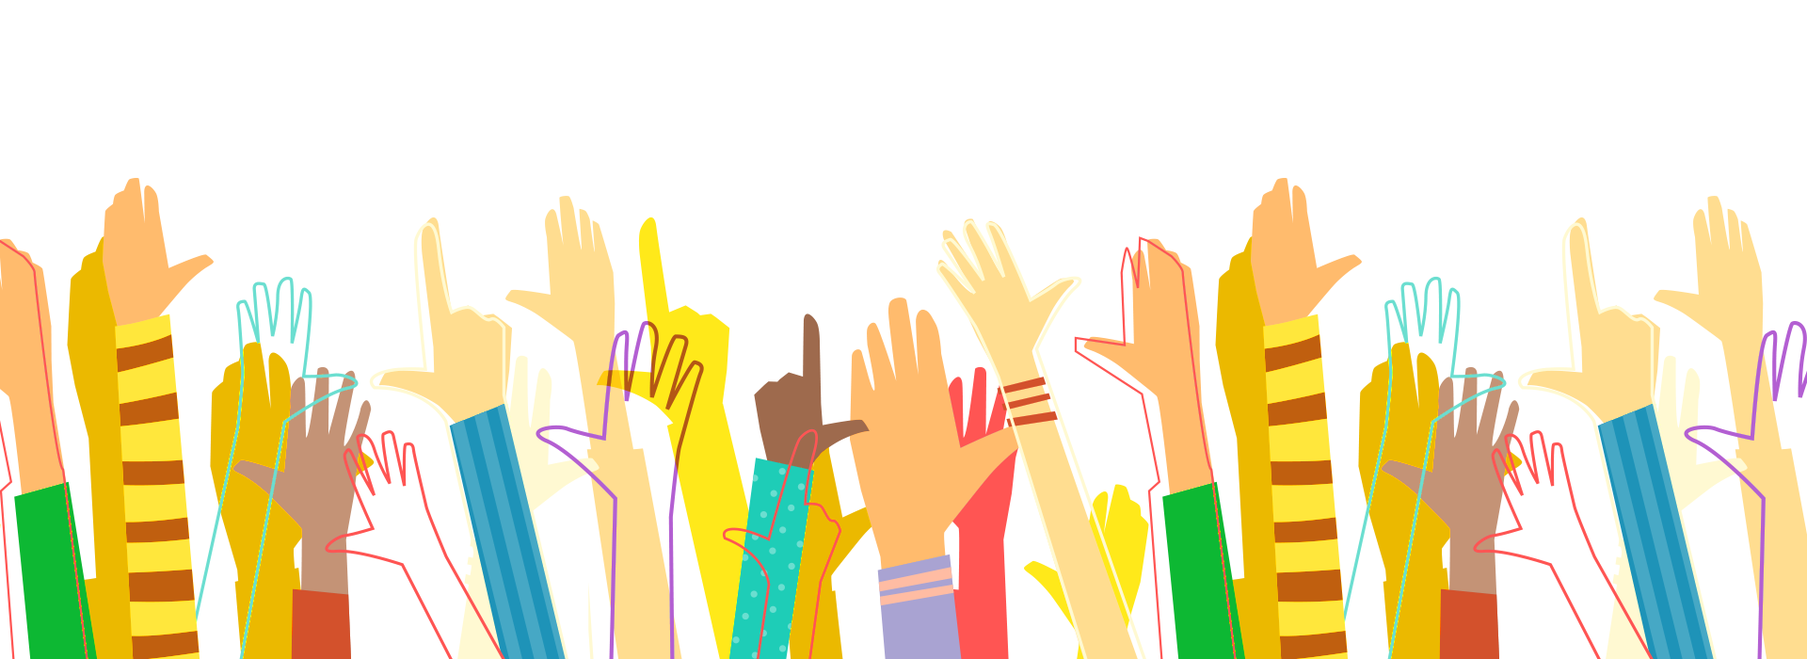
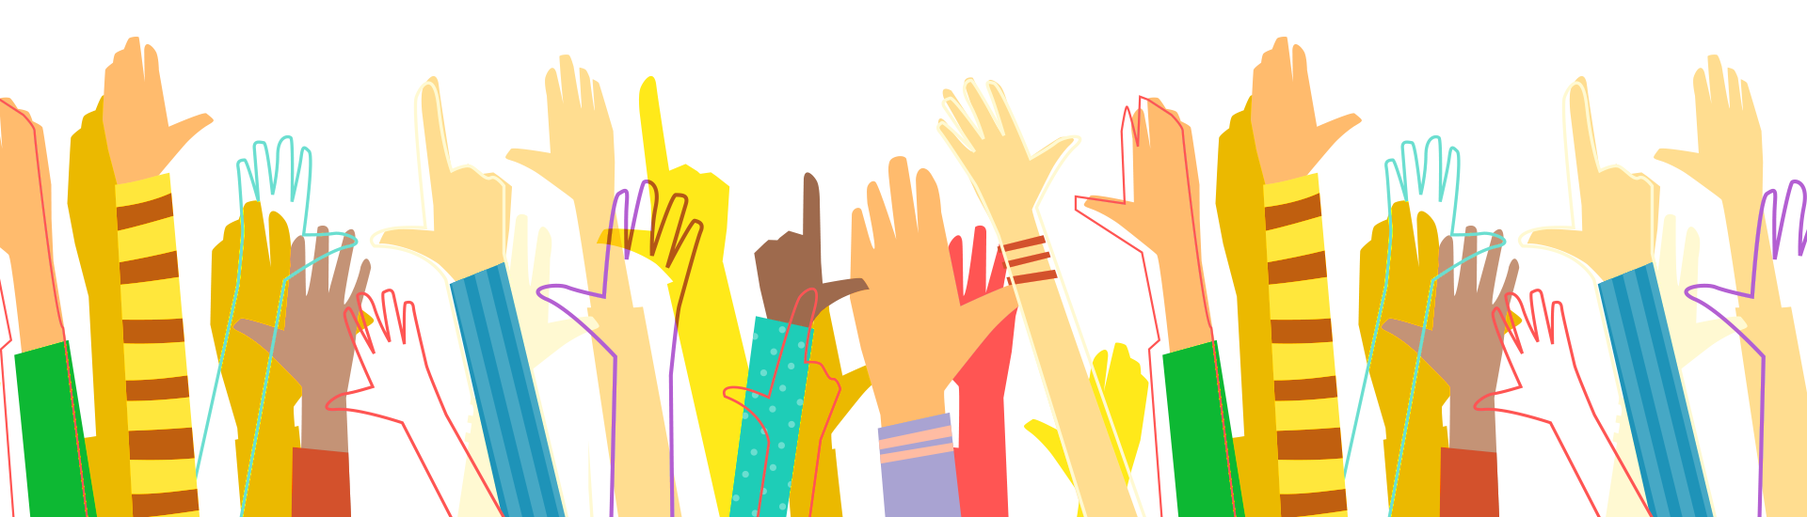
Added all screen and header animation.

diff --git a/css/style.css b/css/style.css
@@ -1,1 +1,1 @@
-html,body,div,span,applet,object,iframe,h1,h2,h3,h4,h5,h6,p,blockquote,pre,a,abbr,acronym,address,big,cite,code,del,dfn,em,img,ins,kbd,q,s,samp,small,strike,strong,sub,sup,tt,var,b,u,i,center,dl,dt,dd,ol,ul,li,fieldset,form,label,legend,table,caption,tbody,tfoot,thead,tr,th,td,article,aside,canvas,details,embed,figure,figcaption,footer,header,hgroup,menu,nav,output,ruby,section,summary,time,mark,audio,video{margin:0;padding:0;border:0;font-size:100%;font:inherit;vertical-align:baseline}article,aside,details,figcaption,figure,footer,header,hgroup,menu,nav,section{display:block}body{line-height:1.2}ol,ul{list-style:none}blockquote,q{quotes:none}blockquote:before,blockquote:after,q:before,q:after{content:'';content:none}table{border-collapse:collapse;border-spacing:0}a{text-decoration:none}@font-face{font-family:'DINPro';src:url('../fonts/DINPro.eot');src:url('../fonts/DINPro.woff2') format('woff2'),url('../fonts/DINPro.woff') format('woff'),url('../fonts/DINPro.ttf') format('truetype'),url('../fonts/DINPro.svg#DINPro') format('svg'),url('../fonts/DINPro.eot?#iefix') format('embedded-opentype');font-weight:normal;font-style:normal}@font-face{font-family:'Gothic725BdBT';src:url('../fonts/Gothic725BdBT.eot');src:url('../fonts/Gothic725BdBT.woff2') format('woff2'),url('../fonts/Gothic725BdBT.woff') format('woff'),url('../fonts/Gothic725BdBT.ttf') format('truetype'),url('../fonts/Gothic725BdBT.svg#Gothic725BdBT') format('svg'),url('../fonts/Gothic725BdBT.eot?#iefix') format('embedded-opentype');font-weight:normal;font-style:normal}@font-face{font-family:'Gothic725BlkBT';src:url('../fonts/Gothic725BlkBT.eot');src:url('../fonts/Gothic725BlkBT.woff2') format('woff2'),url('../fonts/Gothic725BlkBT.woff') format('woff'),url('../fonts/Gothic725BlkBT.ttf') format('truetype'),url('../fonts/Gothic725BlkBT.svg#Gothic725BlkBT') format('svg'),url('../fonts/Gothic725BlkBT.eot?#iefix') format('embedded-opentype');font-weight:normal;font-style:normal}@-webkit-keyframes anim{}@keyframes anim{}body{color:#881f1f;font-family:Gothic725BdBT;background-color:#fff1c5;background-image:url(../img/screen_1_bg.jpg)}.header{position:absolute;top:0;left:0;display:-webkit-box;display:-webkit-flex;display:-ms-flexbox;display:flex;-webkit-box-pack:center;-webkit-justify-content:center;-ms-flex-pack:center;justify-content:center;width:100%;height:60px;background-color:#db0006}.header .logo_wrap{display:-webkit-box;display:-webkit-flex;display:-ms-flexbox;display:flex;-webkit-box-pack:justify;-webkit-justify-content:space-between;-ms-flex-pack:justify;justify-content:space-between;padding:20px 50px;box-sizing:border-box;width:19%;height:10vw;background-color:#fff;border-radius:0 0 10px 10px}.header .logo_wrap .logo{width:40%;-o-object-fit:contain;object-fit:contain}.header .main_menu{display:-webkit-box;display:-webkit-flex;display:-ms-flexbox;display:flex}.header .main_menu_link{display:-webkit-box;display:-webkit-flex;display:-ms-flexbox;display:flex;-webkit-box-pack:center;-webkit-justify-content:center;-ms-flex-pack:center;justify-content:center;-webkit-box-align:center;-webkit-align-items:center;-ms-flex-align:center;align-items:center;padding:0 10px;box-sizing:border-box;width:8vw;height:60px;line-height:1;color:#ffdba9;text-align:center;font-family:DINPro;border-left:1px solid #f1e1af;border-right:1px solid #f1e1af}.header .main_menu_link:hover{background-color:#ea0006}.screen_1{padding:240px 0 0}.screen_1_caption{text-align:center;font-size:1.5rem;font-family:Gothic725BlkBT;text-transform:uppercase}.screen_1 .counter{z-index:0;display:-webkit-box;display:-webkit-flex;display:-ms-flexbox;display:flex;-webkit-box-pack:justify;-webkit-justify-content:space-between;-ms-flex-pack:justify;justify-content:space-between;-webkit-box-align:center;-webkit-align-items:center;-ms-flex-align:center;align-items:center;position:relative;margin:10px auto 0;padding:0 50px 0 25px;box-sizing:border-box;width:500px;height:140px;line-height:140px;color:#fff1c5;font-size:5.75rem;border-radius:15px;background-color:#881f1f}.screen_1 .counter::after{content:'';position:absolute;z-index:-1;bottom:-10px;left:50%;-webkit-transform:translateX(-50%) rotate(45deg);-ms-transform:translateX(-50%) rotate(45deg);transform:translateX(-50%) rotate(45deg);display:block;width:30px;height:30px;border-radius:7px;background-color:#881f1f}.screen_1 .counter_img{height:80%}.screen_1 .hands{height:700px;background-image:url(../img/hands_bg.png);background-position:bottom;background-size:cover}.screen_2{padding:50px 17% 50px 21%;box-sizing:border-box;font-family:Gothic725BlkBT;background-color:#ffbc0d;background-image:url(../img/screen_2_bg.jpg)}.screen_2_caption{color:#e00405;text-align:center;font-size:2.75rem}.screen_2_paragraph{margin-top:30px;font-size:1.7rem}.screen_2 .stars{margin-top:30px;display:-webkit-box;display:-webkit-flex;display:-ms-flexbox;display:flex;-webkit-box-pack:justify;-webkit-justify-content:space-between;-ms-flex-pack:justify;justify-content:space-between}.screen_2 .stars .star{font-size:1.875rem;padding:0 10px;box-sizing:border-box}.screen_2 .stars .star_photo{text-align:center}.screen_2 .stars .star_photo_img{width:250px;height:250px;border-radius:50%}.screen_2 .stars .star_info{margin-top:20px}.screen_2 .stars .star_info_name{text-transform:uppercase}.screen_2 .stars .star .date{margin-top:10px;display:inline-block;padding:5px 10px;box-sizing:border-box;color:#ffbc0d;border-radius:5px;background-color:#881f1f}.screen_2 .stars .star .address{margin-top:10px}.screen_2 .other_stars{margin-top:20px;text-align:center}.screen_2 .other_stars_button{position:relative;z-index:0;display:inline-block;padding:10px 30px;box-sizing:border-box;width:330px;color:#fff;font-size:1.812rem;font-family:Gothic725BdBT;border-radius:15px;text-transform:uppercase;background-color:#df0405}.screen_2 .other_stars_button::before{content:'';position:absolute;z-index:-1;bottom:-10px;left:50%;-webkit-transform:translateX(-50%) rotate(45deg);-ms-transform:translateX(-50%) rotate(45deg);transform:translateX(-50%) rotate(45deg);display:block;width:30px;height:30px;border-radius:7px;background-color:#df0405}.screen_3{position:relative;padding:50px 17% 70px;box-sizing:border-box;display:-webkit-box;display:-webkit-flex;display:-ms-flexbox;display:flex}.screen_3::before,.screen_3::after{content:'';position:absolute;top:10%;height:80%;width:10%;background-size:contain;background-repeat:no-repeat}.screen_3::before{left:50px;background-image:url(../img/heart_left.png);background-position:left}.screen_3::after{right:50px;background-image:url(../img/heart_right.png);background-position:right}.screen_3 .img_wrap{width:40%}.screen_3 .img_wrap .child{width:100%}.screen_3 .instagram{width:60%}.screen_3 .instagram_caption{color:#df0405;font-size:2.5rem;font-family:Gothic725BlkBT}.screen_3 .instagram_caption:first-child{text-transform:uppercase}.screen_3 .instagram_caption:last-child{font-size:2.25rem}.screen_3 .instagram_caption .red{color:#881f1f}.screen_3 .instagram_photo{margin-top:40px;display:-webkit-box;display:-webkit-flex;display:-ms-flexbox;display:flex;-webkit-box-pack:justify;-webkit-justify-content:space-between;-ms-flex-pack:justify;justify-content:space-between;-webkit-flex-wrap:wrap;-ms-flex-wrap:wrap;flex-wrap:wrap}.screen_3 .instagram_photo_img{margin-bottom:10px;width:7.5vw;height:7.5vw;border-radius:50%}
+html,body,div,span,applet,object,iframe,h1,h2,h3,h4,h5,h6,p,blockquote,pre,a,abbr,acronym,address,big,cite,code,del,dfn,em,img,ins,kbd,q,s,samp,small,strike,strong,sub,sup,tt,var,b,u,i,center,dl,dt,dd,ol,ul,li,fieldset,form,label,legend,table,caption,tbody,tfoot,thead,tr,th,td,article,aside,canvas,details,embed,figure,figcaption,footer,header,hgroup,menu,nav,output,ruby,section,summary,time,mark,audio,video{margin:0;padding:0;border:0;font-size:100%;font:inherit;vertical-align:baseline}article,aside,details,figcaption,figure,footer,header,hgroup,menu,nav,section{display:block}body{line-height:1.2}ol,ul{list-style:none}blockquote,q{quotes:none}blockquote:before,blockquote:after,q:before,q:after{content:'';content:none}table{border-collapse:collapse;border-spacing:0}a{text-decoration:none}@font-face{font-family:'DINPro';src:url('../fonts/DINPro.eot');src:url('../fonts/DINPro.woff2') format('woff2'),url('../fonts/DINPro.woff') format('woff'),url('../fonts/DINPro.ttf') format('truetype'),url('../fonts/DINPro.svg#DINPro') format('svg'),url('../fonts/DINPro.eot?#iefix') format('embedded-opentype');font-weight:normal;font-style:normal}@font-face{font-family:'Gothic725BdBT';src:url('../fonts/Gothic725BdBT.eot');src:url('../fonts/Gothic725BdBT.woff2') format('woff2'),url('../fonts/Gothic725BdBT.woff') format('woff'),url('../fonts/Gothic725BdBT.ttf') format('truetype'),url('../fonts/Gothic725BdBT.svg#Gothic725BdBT') format('svg'),url('../fonts/Gothic725BdBT.eot?#iefix') format('embedded-opentype');font-weight:normal;font-style:normal}@font-face{font-family:'Gothic725BlkBT';src:url('../fonts/Gothic725BlkBT.eot');src:url('../fonts/Gothic725BlkBT.woff2') format('woff2'),url('../fonts/Gothic725BlkBT.woff') format('woff'),url('../fonts/Gothic725BlkBT.ttf') format('truetype'),url('../fonts/Gothic725BlkBT.svg#Gothic725BlkBT') format('svg'),url('../fonts/Gothic725BlkBT.eot?#iefix') format('embedded-opentype');font-weight:normal;font-style:normal}@-webkit-keyframes like{0%{opacity:0;-webkit-transform:translateY(0);transform:translateY(0)}10%{opacity:1}100%{-webkit-transform:translateY(-300px);transform:translateY(-300px)}}@keyframes like{0%{opacity:0;-webkit-transform:translateY(0);transform:translateY(0)}10%{opacity:1}100%{-webkit-transform:translateY(-300px);transform:translateY(-300px)}}@-webkit-keyframes hand_1{0%{-webkit-transform:translate(0) rotate(0);transform:translate(0) rotate(0)}50%{-webkit-transform:translate(30px, -30px) rotate(3deg);transform:translate(30px, -30px) rotate(3deg)}100%{-webkit-transform:translate(0) rotate(0);transform:translate(0) rotate(0)}}@keyframes hand_1{0%{-webkit-transform:translate(0) rotate(0);transform:translate(0) rotate(0)}50%{-webkit-transform:translate(30px, -30px) rotate(3deg);transform:translate(30px, -30px) rotate(3deg)}100%{-webkit-transform:translate(0) rotate(0);transform:translate(0) rotate(0)}}@-webkit-keyframes hand_2{0%{-webkit-transform:translate(0);transform:translate(0)}50%{-webkit-transform:translateY(30px);transform:translateY(30px)}100%{-webkit-transform:translate(0);transform:translate(0)}}@keyframes hand_2{0%{-webkit-transform:translate(0);transform:translate(0)}50%{-webkit-transform:translateY(30px);transform:translateY(30px)}100%{-webkit-transform:translate(0);transform:translate(0)}}@-webkit-keyframes hand_3{0%{-webkit-transform:translate(0) rotate(0);transform:translate(0) rotate(0)}50%{-webkit-transform:translate(30px, 30px) rotate(3deg);transform:translate(30px, 30px) rotate(3deg)}100%{-webkit-transform:translate(0) rotate(0);transform:translate(0) rotate(0)}}@keyframes hand_3{0%{-webkit-transform:translate(0) rotate(0);transform:translate(0) rotate(0)}50%{-webkit-transform:translate(30px, 30px) rotate(3deg);transform:translate(30px, 30px) rotate(3deg)}100%{-webkit-transform:translate(0) rotate(0);transform:translate(0) rotate(0)}}body{color:#881f1f;font-family:Gothic725BdBT;background-color:#fff1c5;background-image:url(../img/screen_1_bg.jpg)}.header{z-index:999;position:fixed;top:0;left:0;display:-webkit-box;display:-webkit-flex;display:-ms-flexbox;display:flex;-webkit-box-pack:center;-webkit-justify-content:center;-ms-flex-pack:center;justify-content:center;width:100%;height:60px;background-color:#db0006}.header .logo_wrap{display:-webkit-box;display:-webkit-flex;display:-ms-flexbox;display:flex;-webkit-box-pack:justify;-webkit-justify-content:space-between;-ms-flex-pack:justify;justify-content:space-between;padding:20px 50px;box-sizing:border-box;width:19%;height:10vw;background-color:#fff;border-radius:0 0 10px 10px}.header .logo_wrap .logo{width:40%;-o-object-fit:contain;object-fit:contain}.header .main_menu{display:-webkit-box;display:-webkit-flex;display:-ms-flexbox;display:flex}.header .main_menu_link{display:-webkit-box;display:-webkit-flex;display:-ms-flexbox;display:flex;-webkit-box-pack:center;-webkit-justify-content:center;-ms-flex-pack:center;justify-content:center;-webkit-box-align:center;-webkit-align-items:center;-ms-flex-align:center;align-items:center;padding:0 10px;box-sizing:border-box;width:8vw;height:60px;line-height:1;color:#ffdba9;text-align:center;font-family:DINPro;border-left:1px solid #f1e1af;border-right:1px solid #f1e1af}.header .main_menu_link:hover{background-color:#ea0006}.screen_1{position:relative;padding:240px 0 0;box-sizing:border-box;height:100vh}.screen_1_caption{text-align:center;font-size:1.5rem;font-family:Gothic725BlkBT;text-transform:uppercase}.screen_1 .counter{z-index:0;display:-webkit-box;display:-webkit-flex;display:-ms-flexbox;display:flex;-webkit-box-pack:justify;-webkit-justify-content:space-between;-ms-flex-pack:justify;justify-content:space-between;-webkit-box-align:center;-webkit-align-items:center;-ms-flex-align:center;align-items:center;position:relative;margin:10px auto 0;padding:0 50px 0 25px;box-sizing:border-box;width:500px;height:140px;line-height:140px;color:#fff1c5;font-size:5.75rem;border-radius:15px;background-color:#881f1f}.screen_1 .counter::after{content:'';position:absolute;z-index:-1;bottom:-10px;left:50%;-webkit-transform:translateX(-50%) rotate(45deg);-ms-transform:translateX(-50%) rotate(45deg);transform:translateX(-50%) rotate(45deg);display:block;width:30px;height:30px;border-radius:7px;background-color:#881f1f}.screen_1 .counter_img{height:80%}.screen_1 .hands{position:absolute;bottom:0;left:0;width:100%;height:55vh;background-image:url(../img/hands_bg.png);background-position:bottom;background-size:cover;background-repeat:no-repeat;overflow:hidden}.screen_1 .hands::before{content:'';z-index:1;position:absolute;top:0;left:0;width:100%;height:50px;background-image:url(../img/screen_1_after.png)}.screen_1 .hands .like_1{position:absolute;top:50px;left:10%;width:60px;height:45px;fill:#df0405;opacity:0;-webkit-animation:like 5s infinite;animation:like 5s infinite}.screen_1 .hands .like_2{position:absolute;top:100px;left:23%;width:101px;height:75px;fill:#881f1f;opacity:0;-webkit-animation:like 5s 2s infinite;animation:like 5s 2s infinite}.screen_1 .hands .like_3{position:absolute;top:70px;left:45%;width:60px;height:45px;fill:#881f1f;opacity:0;-webkit-animation:like 5s 1s infinite;animation:like 5s 1s infinite}.screen_1 .hands .like_4{position:absolute;top:120px;right:20%;width:84px;height:63px;fill:#df0405;opacity:0;-webkit-animation:like 5s 4s infinite;animation:like 5s 4s infinite}.screen_1 .hands .like_5{position:absolute;top:50px;right:5%;width:60px;height:45px;fill:#881f1f;opacity:0;-webkit-animation:like 5s 3s infinite;animation:like 5s 3s infinite}.screen_1 .hands .hand{position:absolute;width:250px}.screen_1 .hands .left_hand{left:30%;bottom:-130px;-webkit-animation:hand_1 1s infinite;animation:hand_1 1s infinite}.screen_1 .hands .center_hand{width:300px;left:calc(50% - 150px);bottom:0;-webkit-animation:hand_2 1s .5s infinite;animation:hand_2 1s .5s infinite}.screen_1 .hands .right_hand{right:30%;bottom:-50px;-webkit-animation:hand_3 1s .5s infinite;animation:hand_3 1s .5s infinite}.screen_2{padding:50px 17% 50px 21%;box-sizing:border-box;font-family:Gothic725BlkBT;background-color:#ffbc0d;background-image:url(../img/screen_2_bg.jpg)}.screen_2_caption{color:#df0405;text-align:center;font-size:2.75rem}.screen_2_paragraph{margin-top:30px;font-size:1.7rem}.screen_2 .stars{margin-top:30px;display:-webkit-box;display:-webkit-flex;display:-ms-flexbox;display:flex;-webkit-box-pack:justify;-webkit-justify-content:space-between;-ms-flex-pack:justify;justify-content:space-between}.screen_2 .stars .star{font-size:1.875rem;padding:0 10px;box-sizing:border-box}.screen_2 .stars .star_photo{text-align:center}.screen_2 .stars .star_photo_img{width:250px;height:250px;border-radius:50%}.screen_2 .stars .star_info{margin-top:20px}.screen_2 .stars .star_info_name{text-transform:uppercase}.screen_2 .stars .star .date{margin-top:10px;display:inline-block;padding:5px 10px;box-sizing:border-box;color:#ffbc0d;border-radius:5px;background-color:#881f1f}.screen_2 .stars .star .address{margin-top:10px}.screen_2 .other_stars{margin-top:20px;text-align:center}.screen_2 .other_stars_button{position:relative;z-index:0;display:inline-block;padding:10px 30px;box-sizing:border-box;width:330px;color:#fff;font-size:1.812rem;font-family:Gothic725BdBT;border-radius:15px;text-transform:uppercase;background-color:#df0405}.screen_2 .other_stars_button::before{content:'';position:absolute;z-index:-1;bottom:-10px;left:50%;-webkit-transform:translateX(-50%) rotate(45deg);-ms-transform:translateX(-50%) rotate(45deg);transform:translateX(-50%) rotate(45deg);display:block;width:30px;height:30px;border-radius:7px;background-color:#df0405}.screen_3{position:relative;padding:50px 17% 70px;box-sizing:border-box;display:-webkit-box;display:-webkit-flex;display:-ms-flexbox;display:flex}.screen_3::before,.screen_3::after{content:'';position:absolute;top:10%;height:80%;width:10%;background-size:contain;background-repeat:no-repeat}.screen_3::before{left:50px;background-image:url(../img/heart_left.png);background-position:left}.screen_3::after{right:50px;background-image:url(../img/heart_right.png);background-position:right}.screen_3 .img_wrap{width:35%}.screen_3 .img_wrap .child{width:100%}.screen_3 .instagram{width:65%}.screen_3 .instagram_caption{color:#df0405;font-size:2.5rem;font-family:Gothic725BlkBT}.screen_3 .instagram_caption:first-child{text-transform:uppercase}.screen_3 .instagram_caption:last-child{font-size:2.25rem}.screen_3 .instagram_caption .red{color:#881f1f}.screen_3 .instagram_photo{margin-top:40px;display:-webkit-box;display:-webkit-flex;display:-ms-flexbox;display:flex;-webkit-box-pack:justify;-webkit-justify-content:space-between;-ms-flex-pack:justify;justify-content:space-between;-webkit-flex-wrap:wrap;-ms-flex-wrap:wrap;flex-wrap:wrap}.screen_3 .instagram_photo_img{margin-bottom:10px;width:7.5vw;height:7.5vw;border-radius:50%}.screen_header{padding:0 10px;box-sizing:border-box;height:200px;line-height:200px;font-size:2.75rem;text-align:center;font-family:Gothic725BlkBT;text-transform:uppercase;cursor:pointer}.screen_paragraph{display:none;padding:50px 17% 50px;box-sizing:border-box;font-size:1.7rem}.screen_4 .screen_header{position:relative;color:#df0405;background-color:#ffbb0d}.screen_4 .screen_header .waves{position:absolute;bottom:0;left:12%;width:30%;-webkit-transform:translateY(90%);-ms-transform:translateY(90%);transform:translateY(90%)}.screen_4 .screen_paragraph{margin-top:1%}.screen_5 .screen_header{color:#fff1c5;background-color:#881f1f}

diff --git a/index.html b/index.html
@@ -34,7 +34,39 @@
                 <div class="likes_number">123123</div>
             </div>
             <div class="hands">
-
+                <svg class="like_1" xmlns="http://www.w3.org/2000/svg" width="134.09" height="101.22" viewBox="0 0 134.09 101.22">
+                    <g>
+                        <path class="cls-1" d="M63,99.8,52.89,91.6a4.24,4.24,0,0,1,0-6.88l9.66-7.81a7.07,7.07,0,0,1,8.51,0L81.2,85.11a4.24,4.24,0,0,1,0,6.88L71.54,99.8A7.07,7.07,0,0,1,63,99.8Z" />
+                        <path class="cls-1" d="M122.09,0H12A12,12,0,0,0,0,12V78.67a12,12,0,0,0,12,12H122.09a12,12,0,0,0,12-12V12A12,12,0,0,0,122.09,0ZM75.26,39C76,48,52,65.34,52,65.34S28.5,48,29.09,38.8c0-.18,0-.36,0-.55,0-7.46,5.76-13.5,12.87-13.5a12.64,12.64,0,0,1,10.25,5.37,12.65,12.65,0,0,1,10.25-5.37c7.11,0,12.87,6,12.87,13.5C75.3,38.49,75.27,38.73,75.26,39ZM105,63.43H97.29V41h-6V35.07H92c4,0,6.12-1.58,7.1-5.33h6Z" />
+                    </g>
+                </svg>
+                <svg class="like_2" xmlns="http://www.w3.org/2000/svg" width="134.09" height="101.22" viewBox="0 0 134.09 101.22">
+                    <g>
+                        <path class="cls-1" d="M63,99.8,52.89,91.6a4.24,4.24,0,0,1,0-6.88l9.66-7.81a7.07,7.07,0,0,1,8.51,0L81.2,85.11a4.24,4.24,0,0,1,0,6.88L71.54,99.8A7.07,7.07,0,0,1,63,99.8Z" />
+                        <path class="cls-1" d="M122.09,0H12A12,12,0,0,0,0,12V78.67a12,12,0,0,0,12,12H122.09a12,12,0,0,0,12-12V12A12,12,0,0,0,122.09,0ZM75.26,39C76,48,52,65.34,52,65.34S28.5,48,29.09,38.8c0-.18,0-.36,0-.55,0-7.46,5.76-13.5,12.87-13.5a12.64,12.64,0,0,1,10.25,5.37,12.65,12.65,0,0,1,10.25-5.37c7.11,0,12.87,6,12.87,13.5C75.3,38.49,75.27,38.73,75.26,39ZM105,63.43H97.29V41h-6V35.07H92c4,0,6.12-1.58,7.1-5.33h6Z" />
+                    </g>
+                </svg>
+                <svg class="like_3" xmlns="http://www.w3.org/2000/svg" width="134.09" height="101.22" viewBox="0 0 134.09 101.22">
+                    <g>
+                        <path class="cls-1" d="M63,99.8,52.89,91.6a4.24,4.24,0,0,1,0-6.88l9.66-7.81a7.07,7.07,0,0,1,8.51,0L81.2,85.11a4.24,4.24,0,0,1,0,6.88L71.54,99.8A7.07,7.07,0,0,1,63,99.8Z" />
+                        <path class="cls-1" d="M122.09,0H12A12,12,0,0,0,0,12V78.67a12,12,0,0,0,12,12H122.09a12,12,0,0,0,12-12V12A12,12,0,0,0,122.09,0ZM75.26,39C76,48,52,65.34,52,65.34S28.5,48,29.09,38.8c0-.18,0-.36,0-.55,0-7.46,5.76-13.5,12.87-13.5a12.64,12.64,0,0,1,10.25,5.37,12.65,12.65,0,0,1,10.25-5.37c7.11,0,12.87,6,12.87,13.5C75.3,38.49,75.27,38.73,75.26,39ZM105,63.43H97.29V41h-6V35.07H92c4,0,6.12-1.58,7.1-5.33h6Z" />
+                    </g>
+                </svg>
+                <svg class="like_4" xmlns="http://www.w3.org/2000/svg" width="134.09" height="101.22" viewBox="0 0 134.09 101.22">
+                    <g>
+                        <path class="cls-1" d="M63,99.8,52.89,91.6a4.24,4.24,0,0,1,0-6.88l9.66-7.81a7.07,7.07,0,0,1,8.51,0L81.2,85.11a4.24,4.24,0,0,1,0,6.88L71.54,99.8A7.07,7.07,0,0,1,63,99.8Z" />
+                        <path class="cls-1" d="M122.09,0H12A12,12,0,0,0,0,12V78.67a12,12,0,0,0,12,12H122.09a12,12,0,0,0,12-12V12A12,12,0,0,0,122.09,0ZM75.26,39C76,48,52,65.34,52,65.34S28.5,48,29.09,38.8c0-.18,0-.36,0-.55,0-7.46,5.76-13.5,12.87-13.5a12.64,12.64,0,0,1,10.25,5.37,12.65,12.65,0,0,1,10.25-5.37c7.11,0,12.87,6,12.87,13.5C75.3,38.49,75.27,38.73,75.26,39ZM105,63.43H97.29V41h-6V35.07H92c4,0,6.12-1.58,7.1-5.33h6Z" />
+                    </g>
+                </svg>
+                <svg class="like_5" xmlns="http://www.w3.org/2000/svg" width="134.09" height="101.22" viewBox="0 0 134.09 101.22">
+                    <g>
+                        <path class="cls-1" d="M63,99.8,52.89,91.6a4.24,4.24,0,0,1,0-6.88l9.66-7.81a7.07,7.07,0,0,1,8.51,0L81.2,85.11a4.24,4.24,0,0,1,0,6.88L71.54,99.8A7.07,7.07,0,0,1,63,99.8Z" />
+                        <path class="cls-1" d="M122.09,0H12A12,12,0,0,0,0,12V78.67a12,12,0,0,0,12,12H122.09a12,12,0,0,0,12-12V12A12,12,0,0,0,122.09,0ZM75.26,39C76,48,52,65.34,52,65.34S28.5,48,29.09,38.8c0-.18,0-.36,0-.55,0-7.46,5.76-13.5,12.87-13.5a12.64,12.64,0,0,1,10.25,5.37,12.65,12.65,0,0,1,10.25-5.37c7.11,0,12.87,6,12.87,13.5C75.3,38.49,75.27,38.73,75.26,39ZM105,63.43H97.29V41h-6V35.07H92c4,0,6.12-1.58,7.1-5.33h6Z" />
+                    </g>
+                </svg>
+                <img src="img/left_hand.png" alt="hand" class="hand left_hand">
+                <img src="img/center_hand.png" alt="hand" class="hand center_hand">
+                <img src="img/right_hand.png" alt="hand" class="hand right_hand">
             </div>
         </section>
         <section class="screen_2" id="screen_2">
@@ -49,7 +81,7 @@
                     <div class="date">03.11.18</div>
                     <div class="address">ул. Кирова,1</div>
                 </div>
-                 <div class="star">
+                <div class="star">
                     <div class="star_photo">
                         <img src="img/star_2.jpg" alt="photo" class="star_photo_img">
                     </div>
@@ -87,6 +119,19 @@
                     <img src="img/star_2.jpg" alt="instagram_photo_img" class="instagram_photo_img">
                 </div>
             </div>
+        </section>
+        <section class="screen screen_4" id="screen_4">
+            <div class="screen_header">
+                <h3 class="screen_header_caption">История МакХэппи Дня</h3>
+                <img src="img/waves.png" alt="waves" class="waves">
+            </div>
+            <div class="screen_paragraph">Lorem ipsum dolor sit amet, consectetur adipisicing elit. Sed ad asperiores, a necessitatibus animi? Tempora eaque eum veritatis, assumenda saepe animi omnis placeat nulla, quia dolorem quaerat iure rerum non porro totam maxime qui fuga quasi consectetur! Sapiente minus, at laboriosam, repellat similique beatae sint, ratione quis dignissimos, illum eligendi.</div>
+        </section>
+        <section class="screen screen_5" id="screen_5">
+            <div class="screen_header">
+                <h3 class="screen_header_caption">МакХэппи День в Беларуси</h3>
+            </div>
+            <div class="screen_paragraph">Lorem ipsum dolor sit amet, consectetur adipisicing elit. Sed ad asperiores, a necessitatibus animi? Tempora eaque eum veritatis, assumenda saepe animi omnis placeat nulla, quia dolorem quaerat iure rerum non porro totam maxime qui fuga quasi consectetur! Sapiente minus, at laboriosam, repellat similique beatae sint, ratione quis dignissimos, illum eligendi.</div>
         </section>
     </main>
     <script src="dist/dependencies.js"></script>

diff --git a/less/style.less b/less/style.less
@@ -5,14 +5,15 @@
 @import "anim";
 
 body {
-    color: @red;
+    color: @dark_red;
     font-family: Gothic725BdBT;
     background-color: #fff1c5;
     background-image: url(../img/screen_1_bg.jpg);
 }
 
 .header {
-    position: absolute;
+    z-index: 999;
+    position: fixed;
     top: 0;
     left: 0;
     display: flex;
@@ -63,7 +64,10 @@ body {
 }
 
 .screen_1 {
+    position: relative;
     padding: 240px 0 0;
+    box-sizing: border-box;
+    height: 100vh;
 
     &_caption {
         text-align: center;
@@ -87,7 +91,7 @@ body {
         color: #fff1c5;
         font-size: 5.75rem;
         border-radius: 15px;
-        background-color: @red;
+        background-color: @dark_red;
 
         &::after {
             content: '';
@@ -100,7 +104,7 @@ body {
             width: 30px;
             height: 30px;
             border-radius: 7px;
-            background-color: @red;
+            background-color: @dark_red;
         }
 
         &_img {
@@ -109,10 +113,101 @@ body {
     }
 
     .hands {
-        height: 700px;
+        position: absolute;
+        bottom: 0;
+        left: 0;
+        width: 100%;
+        height: 55vh;
         background-image: url(../img/hands_bg.png);
         background-position: bottom;
         background-size: cover;
+        background-repeat: no-repeat;
+        overflow: hidden;
+        &::before {
+            content: '';
+            z-index: 1;
+            position: absolute;
+            top: 0;
+            left: 0;
+            width: 100%;
+            height: 50px;
+            background-image: url(../img/screen_1_after.png);
+        }
+
+        .like_1 {
+            position: absolute;
+            top: 50px;
+            left: 10%;
+            width: 60px;
+            height: 45px;
+            fill: @red;
+            opacity: 0;
+            animation: like 5s infinite;
+        }
+
+        .like_2 {
+            position: absolute;
+            top: 100px;
+            left: 23%;
+            width: 101px;
+            height: 75px;
+            fill: @dark_red;
+            opacity: 0;
+            animation: like 5s 2s infinite;
+        }
+
+        .like_3 {
+            position: absolute;
+            top: 70px;
+            left: 45%;
+            width: 60px;
+            height: 45px;
+            fill: @dark_red;
+            opacity: 0;
+            animation: like 5s 1s infinite;
+        }
+
+        .like_4 {
+            position: absolute;
+            top: 120px;
+            right: 20%;
+            width: 84px;
+            height: 63px;
+            fill: @red;
+            opacity: 0;
+            animation: like 5s 4s infinite;
+        }
+
+        .like_5 {
+            position: absolute;
+            top: 50px;
+            right: 5%;
+            width: 60px;
+            height: 45px;
+            fill: @dark_red;
+            opacity: 0;
+            animation: like 5s 3s infinite;
+        }
+        .hand {
+            position: absolute;
+            width: 250px;
+        }
+        .left_hand {
+            left: 30%;
+            bottom: -130px;
+            animation: hand_1 1s infinite;
+        }
+        .center_hand {
+            width: 300px;
+            left: ~"calc(50% - 150px)";
+            bottom: 0;
+            animation: hand_2 1s .5s infinite;
+        }
+        .right_hand {
+            right: 30%;
+            bottom: -50px;
+            animation: hand_3 1s .5s infinite;
+        }
     }
 }
 
@@ -124,7 +219,7 @@ body {
     background-image: url(../img/screen_2_bg.jpg);
 
     &_caption {
-        color: #e00405;
+        color: @red;
         text-align: center;
         font-size: 2.75rem;
     }
@@ -169,7 +264,7 @@ body {
                 box-sizing: border-box;
                 color: #ffbc0d;
                 border-radius: 5px;
-                background-color: @red;
+                background-color: @dark_red;
             }
 
             .address {
@@ -194,7 +289,7 @@ body {
             font-family: Gothic725BdBT;
             border-radius: 15px;
             text-transform: uppercase;
-            background-color: #df0405;
+            background-color: @red;
 
             &::before {
                 content: '';
@@ -207,7 +302,7 @@ body {
                 width: 30px;
                 height: 30px;
                 border-radius: 7px;
-                background-color: #df0405;
+                background-color: @red;
             }
         }
     }
@@ -240,15 +335,15 @@ body {
     }
 
     .img_wrap {
-        width: 40%;
+        width: 35%;
         .child {
             width: 100%;
         }
     }
     .instagram {
-        width: 60%;
+        width: 65%;
         &_caption {
-            color: #df0405;
+            color: @red;
             font-size: 2.5rem;
             font-family: Gothic725BlkBT;
             &:first-child {
@@ -258,7 +353,7 @@ body {
                 font-size: 2.25rem;
             }
             .red {
-                color: @red;
+                color: @dark_red;
             }
         }
         &_photo {
@@ -273,6 +368,51 @@ body {
                 border-radius: 50%;
             }
         }
+    }
+}
+
+.screen {
+    &_header {
+        padding: 0 10px;
+        box-sizing: border-box;
+        height: 200px;
+        line-height: 200px;
+        font-size: 2.75rem;
+        text-align: center;
+        font-family: Gothic725BlkBT;
+        text-transform: uppercase;
+        cursor: pointer;
+    }
+    &_paragraph {
+        display: none;
+        padding: 50px 17% 50px;
+        box-sizing: border-box;
+        font-size: 1.7rem;
+    }
+}
+
+.screen_4 {
+    .screen_header {
+        position: relative;
+        color: @red;
+        background-color: @yellow;
+    .waves {
+        position: absolute;
+        bottom: 0;
+        left: 12%;
+        width: 30%;
+        transform: translateY(90%);
+    }
+    }
+    .screen_paragraph {
+        margin-top: 1%;
+    }
+}
+
+.screen_5 {
+    .screen_header {
+        color: #fff1c5;
+        background-color: @dark_red;
     }
 }
 

diff --git a/dist/app.js b/dist/app.js
@@ -93,7 +93,7 @@
 /*! no static exports found */
 /***/ (function(module, exports) {
 
-eval("$(document).ready(function () {\r\n    $('.main_menu_link').click(function (event) {\r\n        event.preventDefault();\r\n        var screen = $(this).attr('href');\r\n        var scrollTo = $(screen).offset().top;\r\n        \r\n        $('html, body').animate({scrollTop: scrollTo}, 1000);\r\n    });\r\n});\n\n//# sourceURL=webpack:///./js/app/app.js?");
+eval("$(document).ready(function () {\n    $('.main_menu_link').click(function (event) {\n        event.preventDefault();\n        var screen = $(this).attr('href');\n        var scrollTo = $(screen).offset().top;\n\n        $('html, body').animate({scrollTop: scrollTo}, 1000);\n    });\n    \n    $('.screen_header').click(function () {\n        $(this).parent().find('.screen_paragraph').slideToggle();\n    });\n});\n\n\n//# sourceURL=webpack:///./js/app/app.js?");
 
 /***/ }),
 

diff --git a/less/anim.less b/less/anim.less
@@ -1,6 +1,31 @@
 //out: null
 
-@keyframes anim {
-    0%{}
-    100%{}
+@keyframes like {
+    0%{
+        opacity: 0;
+        transform: translateY(0);
+    }
+    10%{
+        opacity: 1;
+    }
+    100%{
+        transform: translateY(-300px);}
+}
+
+@keyframes hand_1 {
+    0% {transform: translate(0) rotate(0);}
+    50% {transform: translate(30px, -30px) rotate(3deg);}
+    100% {transform: translate(0) rotate(0);}
+}
+
+@keyframes hand_2 {
+    0% {transform: translate(0);}
+    50% {transform: translateY(30px);}
+    100% {transform: translate(0);}
+}
+
+@keyframes hand_3 {
+    0% {transform: translate(0) rotate(0);}
+    50% {transform: translate(30px, 30px) rotate(3deg);}
+    100% {transform: translate(0) rotate(0);}
 }

diff --git a/js/app/app.js b/js/app/app.js
@@ -6,4 +6,8 @@ $(document).ready(function () {
 
         $('html, body').animate({scrollTop: scrollTo}, 1000);
     });
+
+    $('.screen_header').click(function () {
+        $(this).parent().find('.screen_paragraph').slideToggle();
+    });
 });

diff --git a/less/color.less b/less/color.less
@@ -1,4 +1,5 @@
 //out: null
 
-@red: #881f1f;
+@red: #df0405;
+@dark_red: #881f1f;
 @yellow: #ffbb0d;
